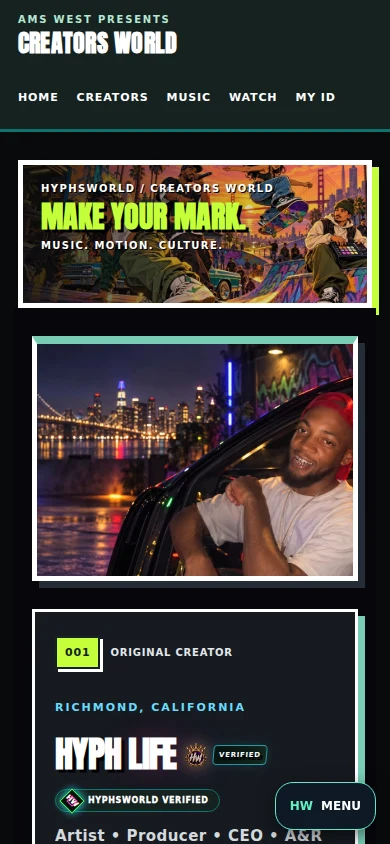
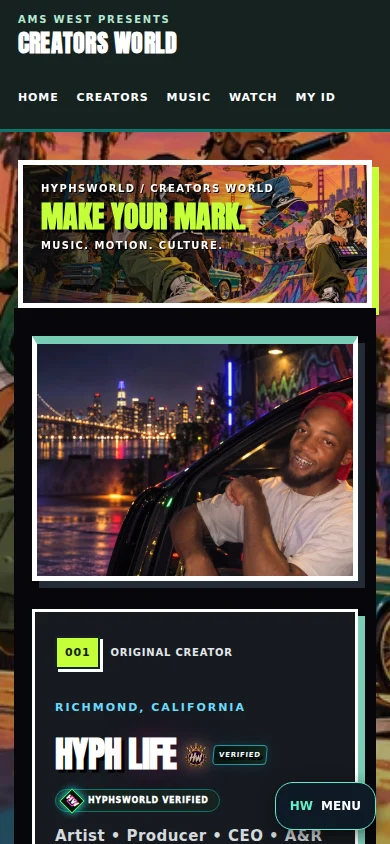
Fill Creator World backgrounds with original skater culture artwork

Changed region(s): [[0.0, 0.154, 1.0, 1.0], [0.4308, 0.2773, 0.4615, 0.3081], [0.2462, 0.2773, 0.2769, 0.3081]]

diff --git a/creator-urban.css b/creator-urban.css
@@ -12,6 +12,7 @@ body.creator-universe[data-hw-experience="site"] {
   color-scheme: dark;
   font-family: Arial, Helvetica, sans-serif;
   margin: 0;
+  isolation: isolate;
 }
 .creator-universe *, .creator-universe *::before, .creator-universe *::after { box-sizing: border-box; }
 .creator-universe main, .creator-universe main * { min-width: 0; }
@@ -170,4 +171,33 @@ body.creator-universe[data-hw-experience="site"] {
 }
 @media (prefers-reduced-motion: reduce) {
   .creator-universe *, .creator-universe *::before, .creator-universe *::after { animation: none !important; transition: none !important; scroll-behavior: auto !important; }
+}
+
+/* Full-page mural: the street crew fills the open space behind the UI. */
+body.creator-universe::before {
+  content: ''; position: fixed; inset: 0; z-index: -1; pointer-events: none;
+  background: linear-gradient(180deg,rgba(8,10,12,.18),rgba(8,10,12,.38)),
+    url('assets/creator-world/urban-culture.webp') center center / cover no-repeat;
+}
+.creator-universe > header { background: rgba(8,10,12,.88); }
+.creator-universe .world-section { background: transparent; }
+.creator-universe .house-copy {
+  padding: clamp(20px,3vw,34px); background: rgba(8,10,12,.88);
+  border: 2px solid rgba(255,255,255,.65); box-shadow: 6px 6px 0 rgba(8,10,12,.55);
+}
+.creator-universe :is(.directory-head,.creation-discovery-head,.trust-head) {
+  padding: 20px; background: rgba(8,10,12,.9); border: 1px solid #697580;
+}
+.creator-universe .directory-head { margin-bottom: 20px; }
+.creator-universe footer { background: rgba(8,10,12,.9); }
+.urban-tools :is(.dash-hero,.access-hero,.creator-login-copy) {
+  background: rgba(8,10,12,.9); border: 1px solid #697580;
+}
+.urban-tools .creator-login-copy { padding: 24px; align-self: start; }
+@media (max-width: 700px) {
+  body.creator-universe::before {
+    background-image: linear-gradient(180deg,rgba(8,10,12,.15),rgba(8,10,12,.35)),
+      url('assets/creator-world/urban-culture-mobile.webp');
+    background-position: center, 43% center;
+  }
 }

diff --git a/scripts/check-creator-skate-browser.js b/scripts/check-creator-skate-browser.js
@@ -79,6 +79,15 @@ const server = http.createServer((req, res) => {
             await page.locator('#creatorLanguage').selectOption('es');
           }
         }
+        if (await page.locator('body.creator-universe').count()) {
+          const mural = await page.locator('body').evaluate(el => {
+            const style = getComputedStyle(el, '::before');
+            return { image: style.backgroundImage, position: style.position, pointerEvents: style.pointerEvents };
+          });
+          assert(mural.image.includes('urban-culture'), `${file}: Full-page skater mural is present`);
+          assert.equal(mural.position, 'fixed', 'Mural covers the viewport while scrolling');
+          assert.equal(mural.pointerEvents, 'none', 'Mural cannot block controls');
+        }
         // Tools retain their real IDs and scripts; anonymous pages must remain usable.
         if (await page.locator('body.urban-tools').count()) {
           assert(await page.locator('header > a').isVisible(), `${file}: Creator navigation remains visible`);

diff --git a/docs/design/creator-urban-culture/README.md b/docs/design/creator-urban-culture/README.md
@@ -31,3 +31,7 @@ Artwork generated with the built-in image generation tool, then compressed to We
 - Supabase read-only check confirmed ten published creators; no auth, RLS or storage configuration change.
 
 Run browser checks using `NODE_PATH=<playwright-install>/node_modules node scripts/check-creator-skate-browser.js`. The existing script filename is retained for CI compatibility.
+
+## Full-page skater background
+
+The existing cartoon artwork now fills the viewport behind page content and continues while scrolling. Open areas reveal the mural instead of flat black. Headers and text/form panels use dark surfaces for contrast. A smaller image loads on phones; the decorative layer does not receive pointer events. This styling applies to the 13 included pages; the five blocked HTML uploads remain pending.
